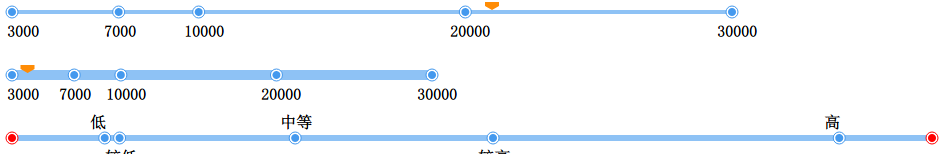
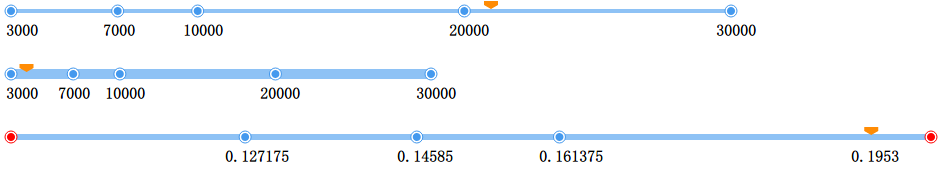
optimize middle3

diff --git a/dotrange.js b/dotrange.js
@@ -32,6 +32,19 @@ var dotrange = function(){
     .range([0, options.rangeWidth]); 
   };
 
+  var _parse_to_section = function(type, target, data) { 
+    console.log(data);
+    var result = "";
+    if(type == "middle3") { 
+      if(target <= data[0]) result = "低";
+      if(target == data[0]) result = "中等";
+      if(target > data[0] && target < data[1]) result = "中等偏下";
+      if(target > data[1] && target < data[2]) result = "中等偏上";
+      if(target > data[2]) result = "高";
+    }
+    return result;
+  }
+
   var _xscale_mid5 = function(options){
     return d3.scale.linear()
     .domain([d3.min(options.dataset) - d3.max(options.dataset) / 8, d3.max(options.dataset) + d3.max(options.dataset) / 8])
@@ -67,7 +80,7 @@ var dotrange = function(){
     var xscale = _xscale_mid3(op);
     var rangeSVG = _rangeSVG(op);
     var rangeLine = _rangeLine(op, rangeSVG); 
-    var ds = op.dataset;
+    var ds = op.dataset.sort(d3.ascending);
     var mid = low_q = high_q = 0;
     var length = ds.length;
 
@@ -77,11 +90,13 @@ var dotrange = function(){
     m3[1] = d3.quantile(ds, 0.5);
     m3[2] = d3.quantile(ds, 0.75);
 
-    var ds_text = op.textset || ds;
+    console.log(m3[0])
+    console.log(m3[1])
+    console.log(m3[2])
 
-    console.log(low_q);
-    console.log(mid);
-    console.log(high_q);
+    var result = _parse_to_section("middle3", op.targetData, m3)
+
+    var ds_text = op.textset || ds; 
 
     rangeSVG.append("circle")
     .classed("range-circle-start-outer", true)
@@ -161,21 +176,14 @@ var dotrange = function(){
     .data(m3)
     .enter()
     .append("text")
-    .text(function(d, i){
-      return ds_text[i];
+    .text(function(d){
+      return d;
     })
     .attr({
       "x": function(d, i){
-          return xscale(d) + op.padding - 10; 
+        return xscale(d) + op.padding - 20;
       },
-      "y": function(d, i){
-        if (i % 2 === 0) {
-          return op.height/2 - 10 
-        }
-        else {
-          return op.height/2 + 25 
-        }
-      }
+      "y": op.height/2 + 25
     });
 
     var targetX = xscale(op.targetData) + op.padding;
@@ -189,6 +197,15 @@ var dotrange = function(){
         (targetX - 7) + "," + (op.height/2 - 10),
       "fill": "#ff8c05",
     });
+    rangeSVG.append("text")
+    .text(op.targetData)
+    .attr({
+      "x": targetX - 20,
+      "y": op.height/2 + 25
+    });
+
+    console.log(result);
+    return result;
   }; 
 
   dotrange.middle5 = function(options) {

diff --git a/example/dotrange.html b/example/dotrange.html
@@ -8,8 +8,7 @@
   <body> 
     <script src="../dotrange.js" charset="utf-8"></script>
     <script>
-      var ds_middle = [3000, 8000, 9000, 18000, 80000,
-                      150000, 160000, 170000, 300000];
+      var ds_middle = [0.1019, 0.1017, 0.1356, 0.1446, 0.1471, 0.1503, 0.1946, 0.2018];
       var tx_middle = ["低", "中", "高"];
       var ds_normal = [3000, 7000, 10000, 20000, 30000];
       dotrange.normal({
@@ -36,7 +35,7 @@
       dotrange.middle3({
         ele: "#middle",
         dataset: ds_middle,
-        targetData: 100000,
+        targetData: 0.1953,
         width: 1000,
         height: 60,
         rangeHeight: 6,
